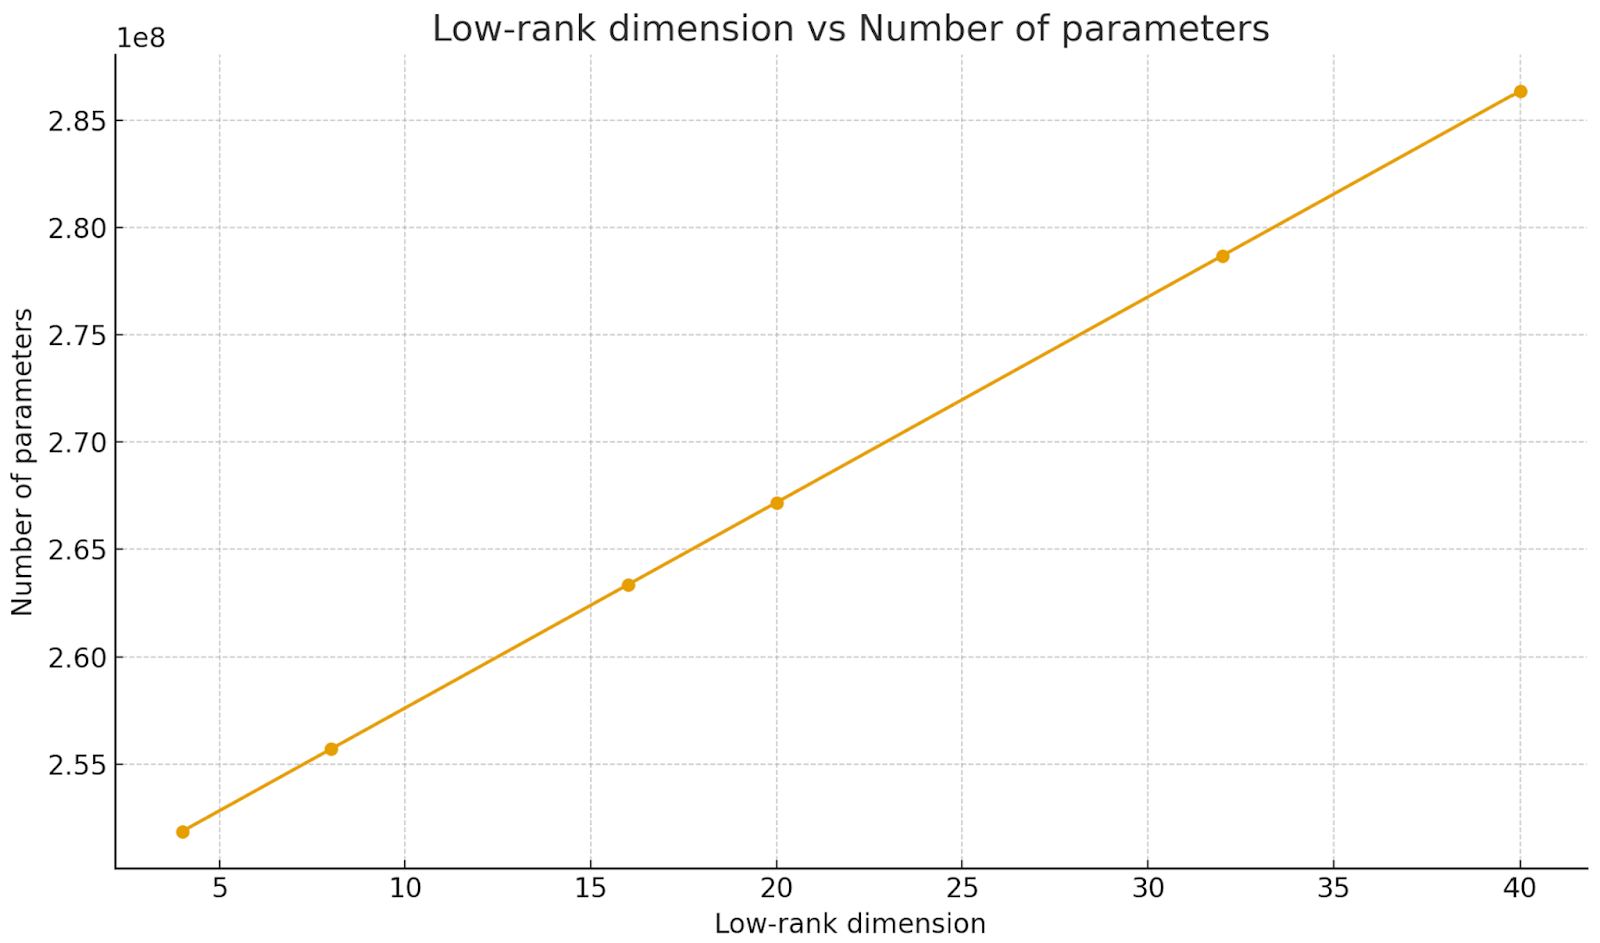
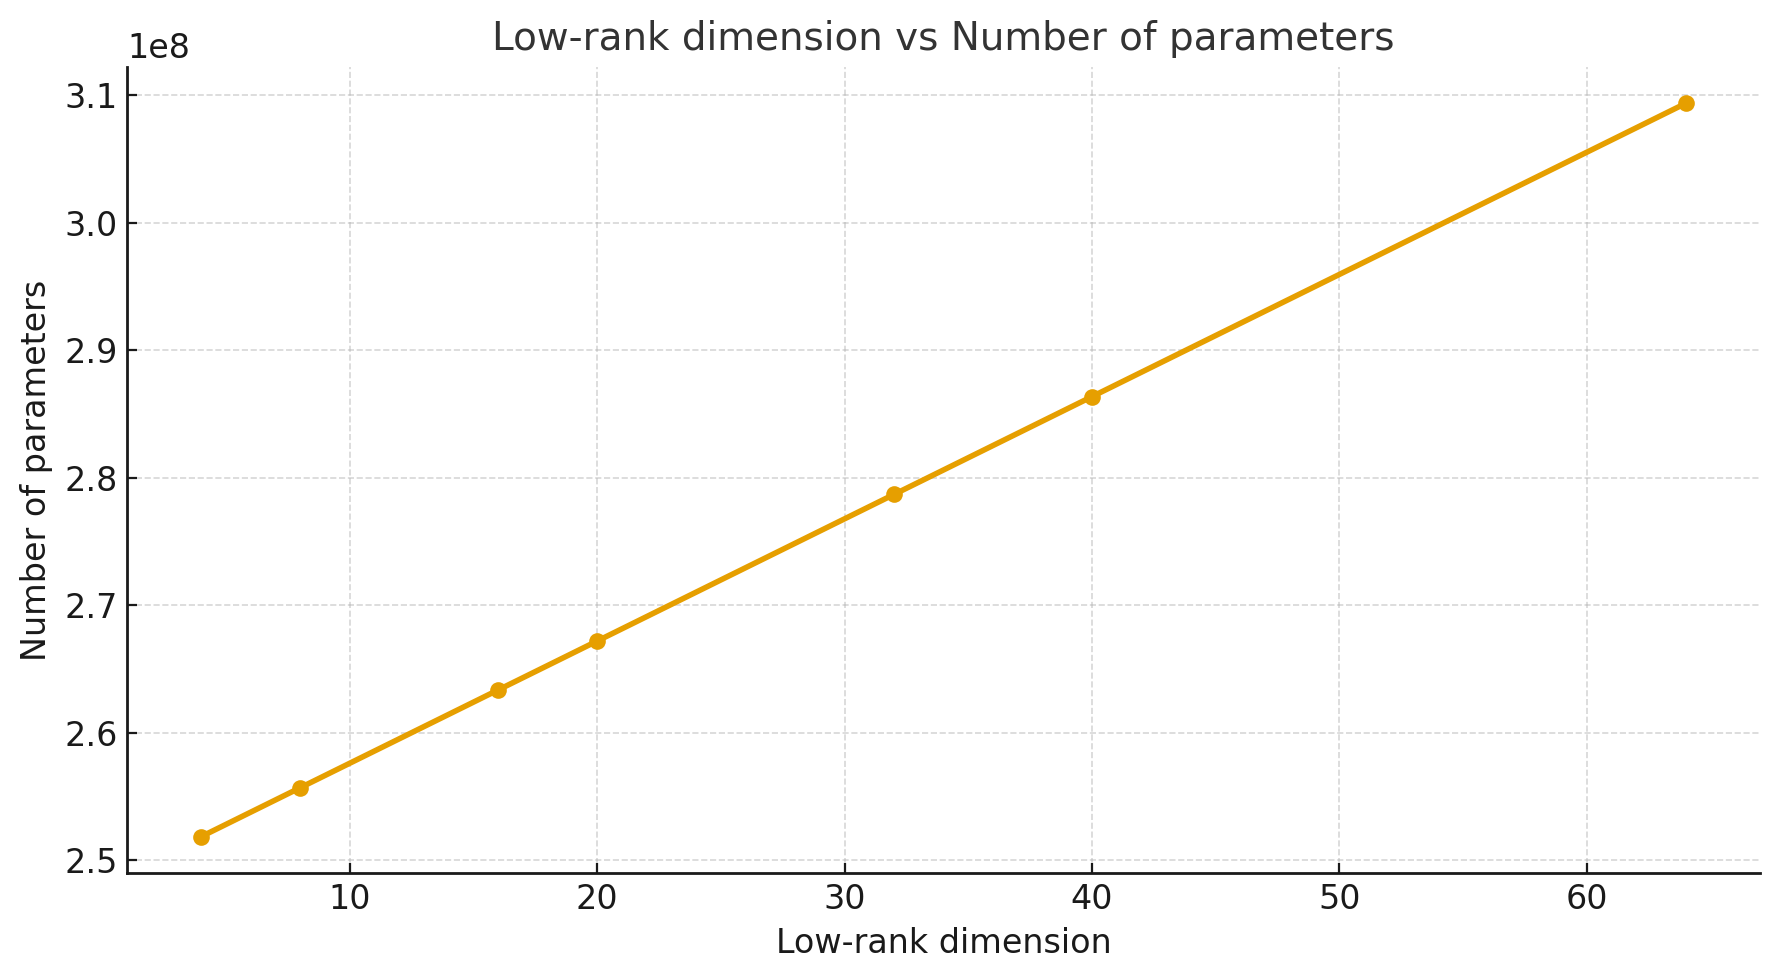
Update results section with new graphs and attention maps
- Reorganized Results section (6.1 Perplexity, 6.2 Parameters, 6.3 Classification)
- Added ViT accuracy graph and combined attention heatmaps
- Updated analysis text for perplexity, parameters, and classification sections
- Added attention maps visualization for ranks 4, 16, 32, and 64 (baseline)

🤖 Generated with [Claude Code](https://claude.com/claude-code)

diff --git a/index.html b/index.html
@@ -346,7 +346,7 @@
       <div class="article-authors">
         <a href="https://github.com/HatedFate">Xin Qi Liu<sup>†</sup></a>,
         <a>Justin Zhang</a>,
-        <a>Nico</a>
+        <a>Nico Mangiafico</a>
       </div>
       <hr />
 
@@ -803,30 +803,61 @@
       <section id="Results">
         <h2>6. Results</h2>
         <h3>6.1 Perplexity Analysis</h3>
+
+          <p>
+          In this subsection, we present our perplexity analysis results. The graph below shows the perplexity of the language model on the y-axis and the corresponding rank on the x-axis for the ranks of 4, 8, 16, 20, 32, 40, and 64 (the baseline). As one can observe, the perplexity of the language model remains relatively stable for ranks greater than 8, but increases significantly when the rank is reduced to 4, going from a perplexity of 12.19 at a rank of 8 to a rank of 22.92 at rank 4. 
+        </p>
+
         <div style="text-align: center; margin: 1em 0;">
           <img src="results/perplexity-anal.png"
               alt="Perplexity analysis for LowRank Transformer"
               style="max-width: 100%; height: auto;">
         </div>
 
-        <p>
-          The perplexity of the language model remains relatively stable for ranks greater than 8, 
-          but increases significantly when the rank is reduced to 4. 
+
+
+        <h3>6.2 Counting Trainable Parameters</h3>
+
+
+          <p>
+          In this subsection, we present our analysis on the countable training parameters corresponding to rank. The graph below shows that, as predicted by the asymptotic analysis of parameter savings, the
+          number of parameters varies linearly with the rank. We do not explicitly include the coordinates on the graph above to avoid the visual being too cluttered, but the orange points on the line represent the countabel training parameters for the ranks of 4, 8, 16, 20, 32, 40, and 64 (the baseline). 
         </p>
 
-        <h3>6.4 Classification Accuracy</h3>
-
-        <h3>6.5 Counting Trainable Parameters</h3>
         <div style="text-align: center; margin: 1em 0;">
           <img src="results/parameters-anal.png"
               alt="Perplexity analysis for LowRank Transformer"
               style="max-width: 100%; height: auto;">
         </div>
 
+
+
+
+        <h3>6.3 Classification Accuracy</h3>
+
         <p>
-          As predicted by the asymptotic analysis of parameter savings, the 
-          number of parameters varies linearly with the rank.
+          In this subsection, we present our analysis on the ViT. The graph below demonstrates the relationship between ViT rank and the validation accuracy of the model. As one can observe, even as rank decreases down from the baseline of 64 to 4, there is only a small decrease in accuracy of under 4 percetange points. This suggests the potential that our approach could have to reduce model size by a decent margin without sacrificing much in performance and accuracy.
+
         </p>
+
+        <div style="text-align: center; margin: 1em 0;">
+          <img src="results/ViTAccuracy.png"
+              alt="ViT Rank vs Validation Accuracy"
+              style="max-width: 100%; height: auto;">
+        </div>
+
+        <p>
+          In addition to our validation accuracy results above, we also show our attention maps below for the ViT models of rank 4, 16, 32, and 64 (baseline) from top to bottom. As one can observe, the lowered rank does cause less sharp attention maps, as expected. We elaborate more on the implications of these results in our following Discussion section below. 
+
+        </p>
+
+        <h4>Attention Maps</h4>
+        <figure style="text-align: center; margin: 1em 0;">
+          <img src="results/all_heatmaps.png"
+              alt="Attention Maps for ViT"
+              style="max-width: 100%; height: auto;">
+          <figcaption>Attention Maps for ViT of Ranks 4, 16, 32, 64 (baseline), from top to bottom</figcaption>
+        </figure>
 
       </section>
 
@@ -860,7 +891,7 @@
           patterns rather than very sharp attention peaks.
         </p>
       
-        <h3>7.1 Is this worth it?</h3>
+        <h3>7.1 Is this worth it? A Discussion on Practicial Implicaitons of Our Work </h3>
 
         <p>
           Whether this method is worthwhile to use in modern transformer based models depends strongly on the deployment
@@ -872,7 +903,7 @@
           models to use less space and compute as they continue to grow in size and complexity. Even so, approximating 
           the projection matrices alone will save about 10 - 15% of the total model size. For example, in the case of our
           causal language model, rank 8 reduces the amount of parameters by about 100 million, which is equivalent to 
-          about 180 MB, whereas the full model is 1.2 GB.
+          about 180 MB, whereas the full model is 1.2 GB. Hence, the approach we have developed can be very valulabe in situations where smaller models are desired without incurring large decrements in performance.
         </p>
       </section>
 
